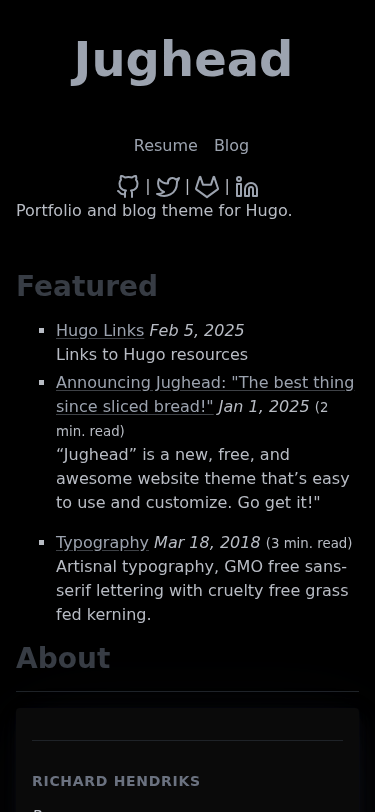
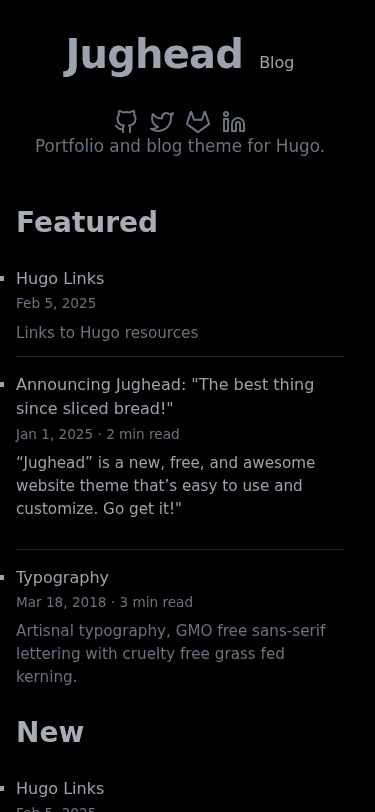
Fix heading contrast and update screenshots
Tone down body text and heading colors across all theme variants:
- Ink dark: body text from #b8bcc4 to #9ca3af, headings close to body
- Earth dark: body text from #cbd5e1 to #94a3b8, headings close to body
- Light modes: explicitly set heading colors to match theme palette
  instead of inheriting Pico's blue-gray defaults

Override Pico's heading colors in all blocks (not just dark) to prevent
Pico's :root:not([data-theme=dark]) selector from applying its defaults.

Regenerate screenshots without resume pages.

diff --git a/assets/css/themes.css b/assets/css/themes.css
@@ -18,6 +18,10 @@ html:root[data-theme="ink"],
 html:root[data-theme="ink-light"] {
   --pico-background-color: #faf8f5;
   --pico-color: #1a1a1a;
+  --pico-h1-color: #1a1a1a;
+  --pico-h2-color: #2a2a2a;
+  --pico-h3-color: #3a3a3a;
+  --pico-h4-color: #4a4a4a;
   --pico-muted-color: #6b6b6b;
   --pico-muted-border-color: #e0ddd8;
   --pico-primary: #1a1a1a;
@@ -39,11 +43,11 @@ html:root[data-theme="ink-light"] {
 /* Ink Dark - true black, steel accents, OLED optimized */
 html:root[data-theme="ink-dark"] {
   --pico-background-color: #000;
-  --pico-color: #b8bcc4;
-  --pico-h1-color: #c8ccd4;
-  --pico-h2-color: #c0c4cc;
-  --pico-h3-color: #b8bcc4;
-  --pico-h4-color: #b0b4bc;
+  --pico-color: #9ca3af;
+  --pico-h1-color: #b0b5bd;
+  --pico-h2-color: #a8adb5;
+  --pico-h3-color: #a0a5ad;
+  --pico-h4-color: #9ca3af;
   --pico-muted-color: #6b7280;
   --pico-muted-border-color: #1f2328;
   --pico-primary: #9ca3af;
@@ -66,11 +70,11 @@ html:root[data-theme="ink-dark"] {
 @media (prefers-color-scheme: dark) {
   html:root[data-theme="ink"] {
     --pico-background-color: #000;
-    --pico-color: #b8bcc4;
-    --pico-h1-color: #c8ccd4;
-    --pico-h2-color: #c0c4cc;
-    --pico-h3-color: #b8bcc4;
-    --pico-h4-color: #b0b4bc;
+    --pico-color: #9ca3af;
+    --pico-h1-color: #b0b5bd;
+    --pico-h2-color: #a8adb5;
+    --pico-h3-color: #a0a5ad;
+    --pico-h4-color: #9ca3af;
     --pico-muted-color: #6b7280;
     --pico-muted-border-color: #1f2328;
     --pico-primary: #9ca3af;
@@ -99,6 +103,10 @@ html:root[data-theme="earth"],
 html:root[data-theme="earth-light"] {
   --pico-background-color: #faf6f1;
   --pico-color: #3d2e24;
+  --pico-h1-color: #3d2e24;
+  --pico-h2-color: #4d3e34;
+  --pico-h3-color: #5d4e44;
+  --pico-h4-color: #6d5e54;
   --pico-muted-color: #7a685c;
   --pico-muted-border-color: #e5ddd4;
   --pico-primary: #b45309;
@@ -120,11 +128,11 @@ html:root[data-theme="earth-light"] {
 /* Earth Dark - slate blue, cool gray */
 html:root[data-theme="earth-dark"] {
   --pico-background-color: #0f172a;
-  --pico-color: #cbd5e1;
-  --pico-h1-color: #b4c0d0;
-  --pico-h2-color: #acb8c8;
-  --pico-h3-color: #a4b0c0;
-  --pico-h4-color: #9ca8b8;
+  --pico-color: #94a3b8;
+  --pico-h1-color: #a8b5c8;
+  --pico-h2-color: #a0adc0;
+  --pico-h3-color: #98a5b8;
+  --pico-h4-color: #94a3b8;
   --pico-muted-color: #64748b;
   --pico-muted-border-color: #1e293b;
   --pico-primary: #7c9bb8;
@@ -147,11 +155,11 @@ html:root[data-theme="earth-dark"] {
 @media (prefers-color-scheme: dark) {
   html:root[data-theme="earth"] {
     --pico-background-color: #0f172a;
-    --pico-color: #cbd5e1;
-    --pico-h1-color: #b4c0d0;
-    --pico-h2-color: #acb8c8;
-    --pico-h3-color: #a4b0c0;
-    --pico-h4-color: #9ca8b8;
+    --pico-color: #94a3b8;
+    --pico-h1-color: #a8b5c8;
+    --pico-h2-color: #a0adc0;
+    --pico-h3-color: #98a5b8;
+    --pico-h4-color: #94a3b8;
     --pico-muted-color: #64748b;
     --pico-muted-border-color: #1e293b;
     --pico-primary: #7c9bb8;
